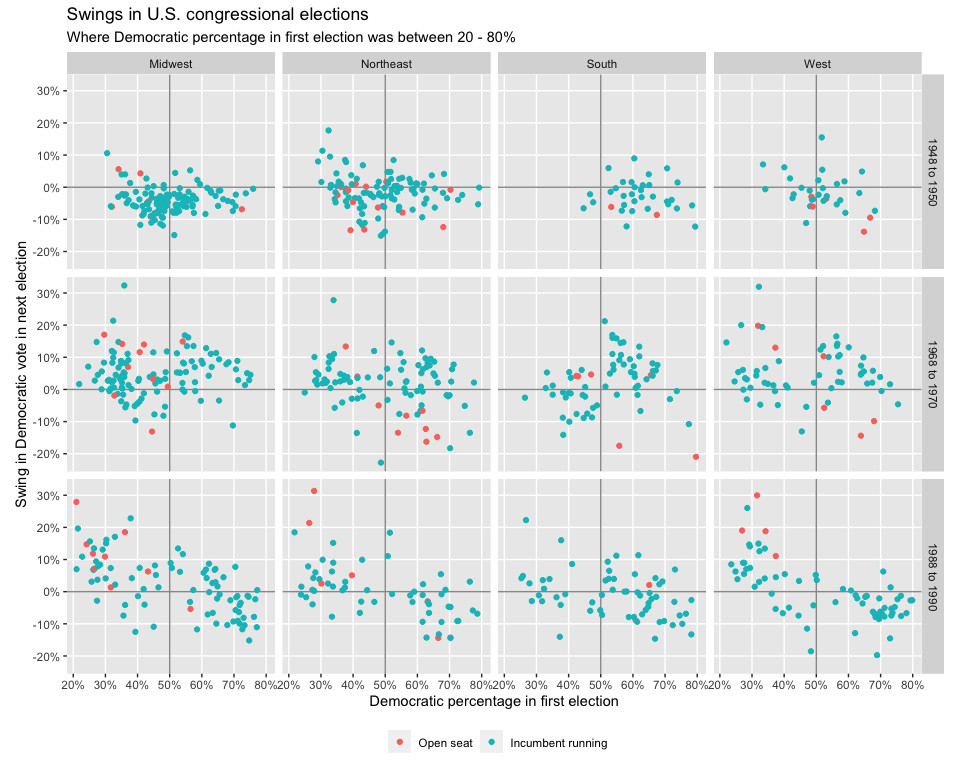
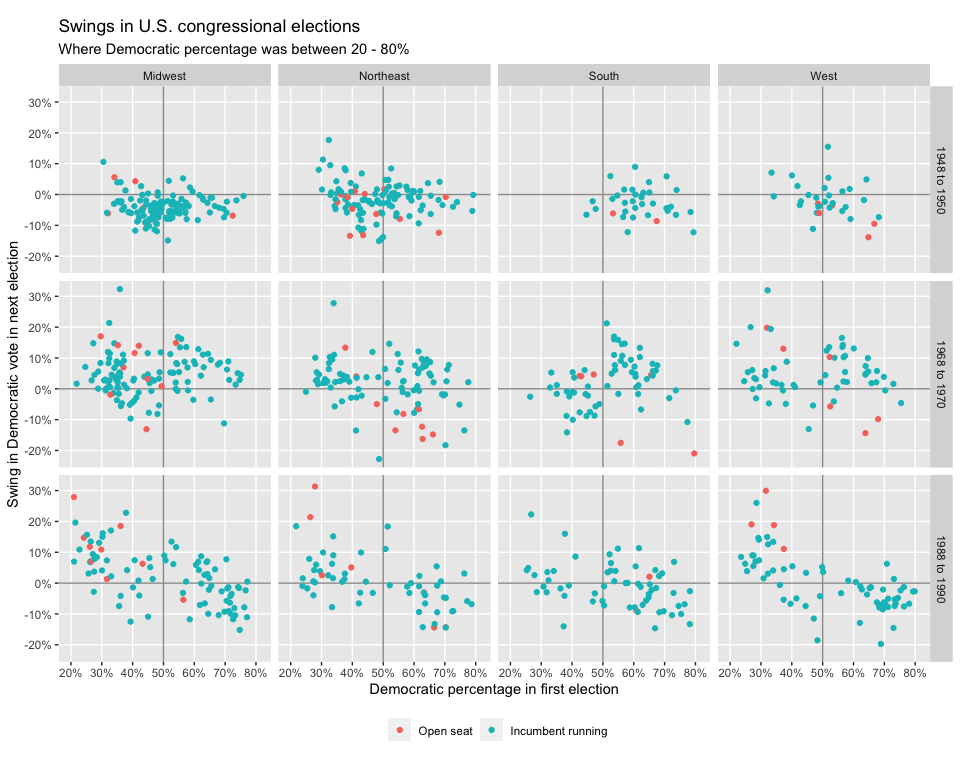
Initial commit

Changed region(s): [[0.0, 0.0, 1.0, 0.9688], [0.7812, 0.4062, 0.8125, 0.4375]]

diff --git a/Congress/congress_plots_tv.md b/Congress/congress_plots_tv.md
@@ -1,7 +1,7 @@
 Regression and Other Stories: Congress
 ================
 Andrew Gelman, Jennifer Hill, Aki Vehtari
-2020-12-04
+2020-12-11
 
 -   [Data](#data)
 -   [Plot](#plot)
@@ -19,9 +19,9 @@ library(tidyverse)
 
 # Parameters
   # Directory with congressional election data
-dir_election <- here::here("Congress/data")
+dir_elections <- here::here("Congress/data")
   # Data variables
-election_rename <- 
+elections_rename <- 
   c(
     state_code = "X1",
     district_code = "X2",
@@ -44,9 +44,9 @@ source(file_common)
 
 ``` r
 elections <- 
-  fs::dir_ls(path = dir_election, regexp = "\\d{4}.asc$") %>% 
+  fs::dir_ls(path = dir_elections, regexp = "\\d{4}.asc$") %>% 
   map_dfr(~ read_table2(., col_names = FALSE), .id = "year") %>% 
-  rename(!!! election_rename) %>% 
+  rename(!!! elections_rename) %>% 
   mutate(
     year = str_match(year, "(\\d{4}).asc$")[, 2] %>% as.integer(),
     across(!year, na_if, -9),
@@ -174,7 +174,8 @@ v %>%
   scale_x_continuous(
     breaks = scales::breaks_width(0.1),
     minor_breaks = NULL,
-    labels = scales::label_percent(accuracy = 1)
+    labels = scales::label_percent(accuracy = 1),
+    expand = expansion(add = 0.05)
   ) +
   scale_y_continuous(
     breaks = scales::breaks_width(0.1),
@@ -188,7 +189,7 @@ v %>%
   theme(legend.position = "bottom") +
   labs(
     title = "Swings in U.S. congressional elections",
-    subtitle = "Where Democratic percentage in first election was between 20 - 80% ",
+    subtitle = "Where Democratic percentage was between 20 - 80%",
     x = "Democratic percentage in first election",
     y = "Swing in Democratic vote in next election",
     color = NULL
